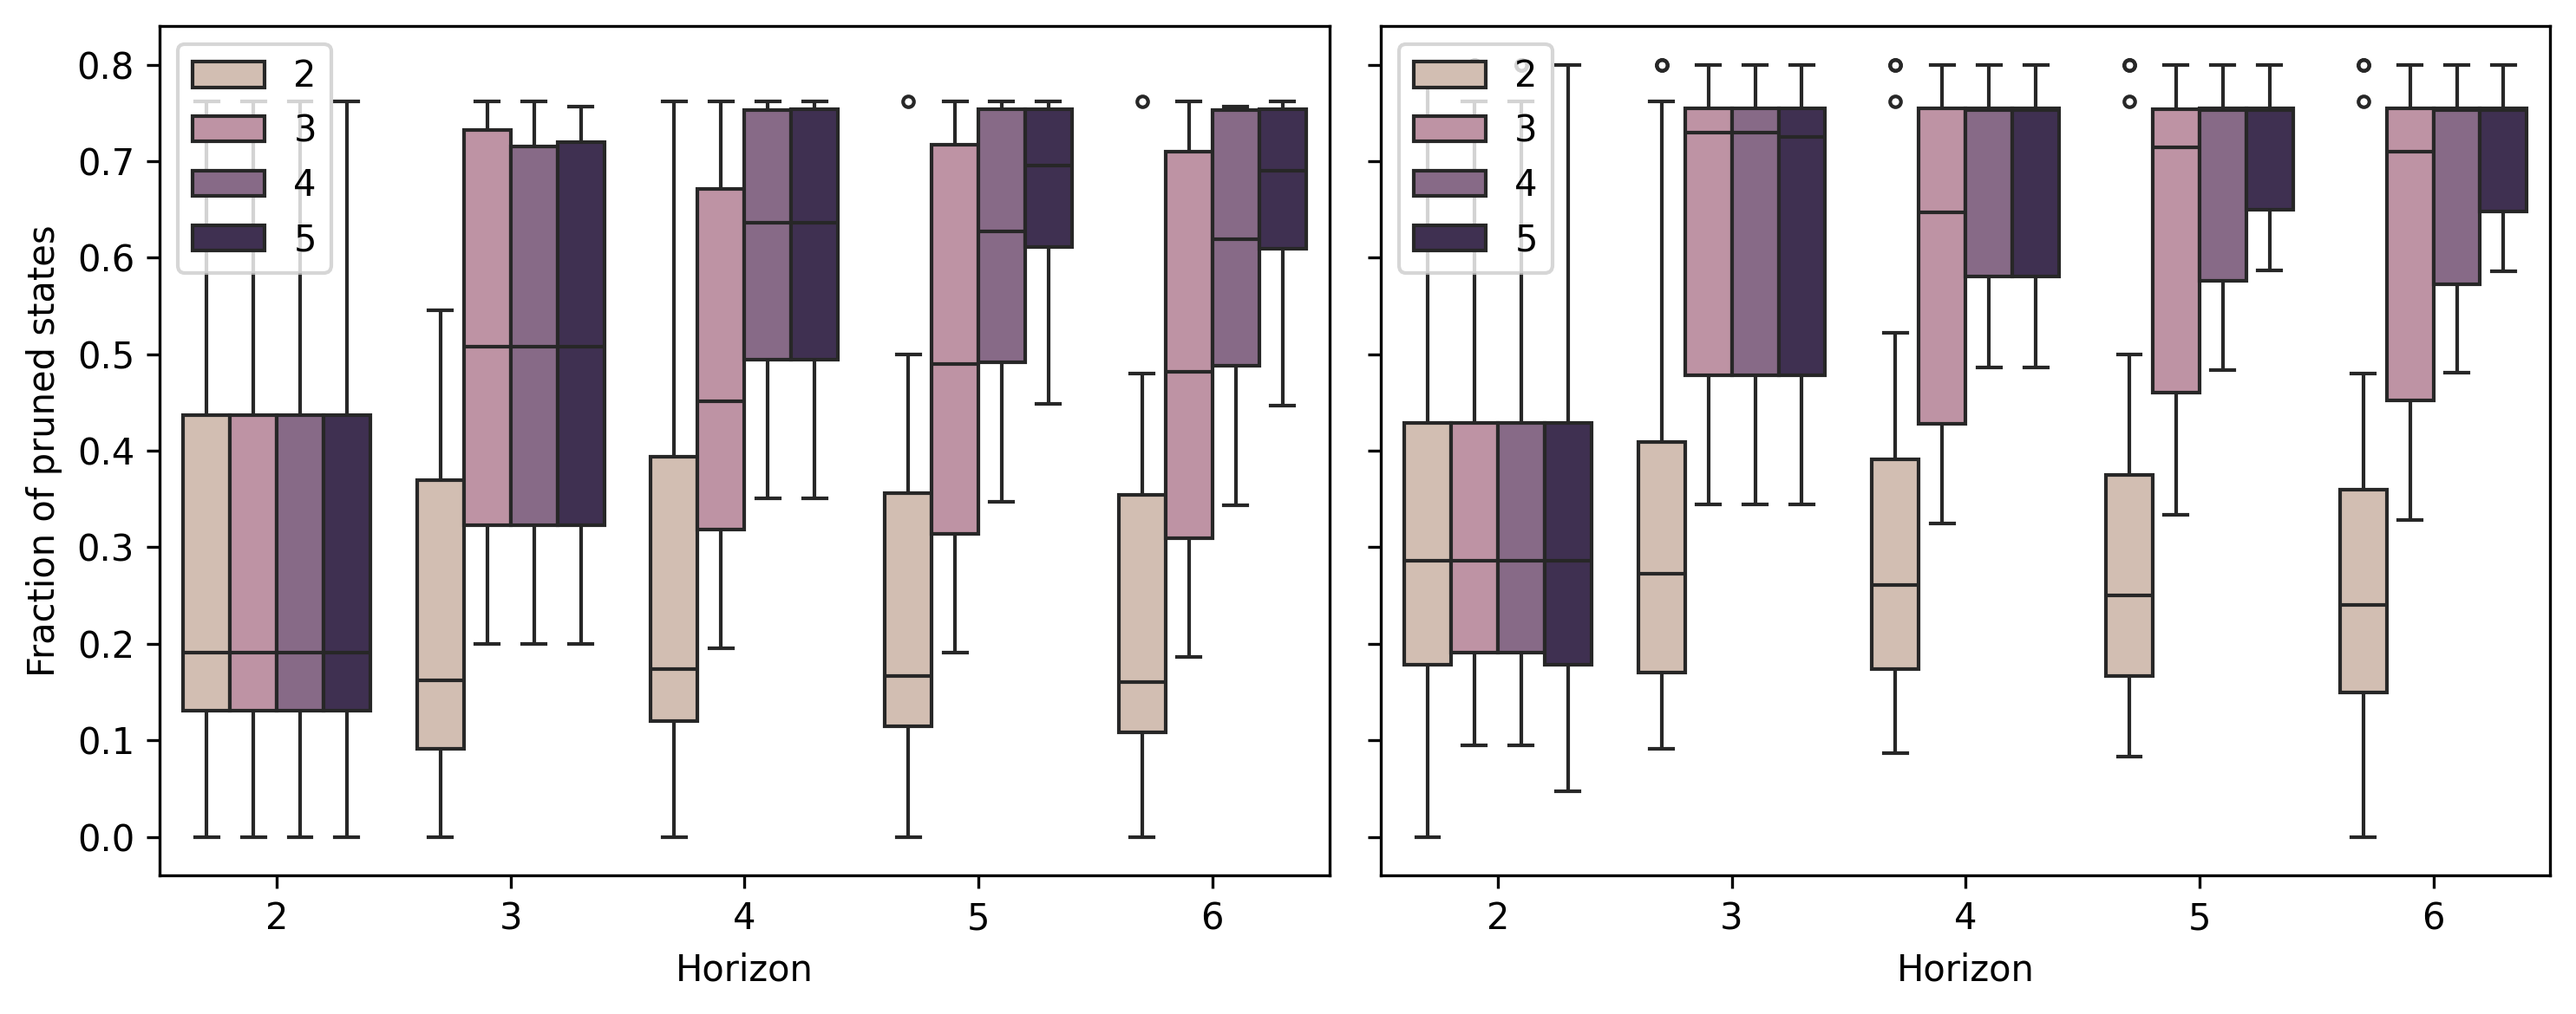
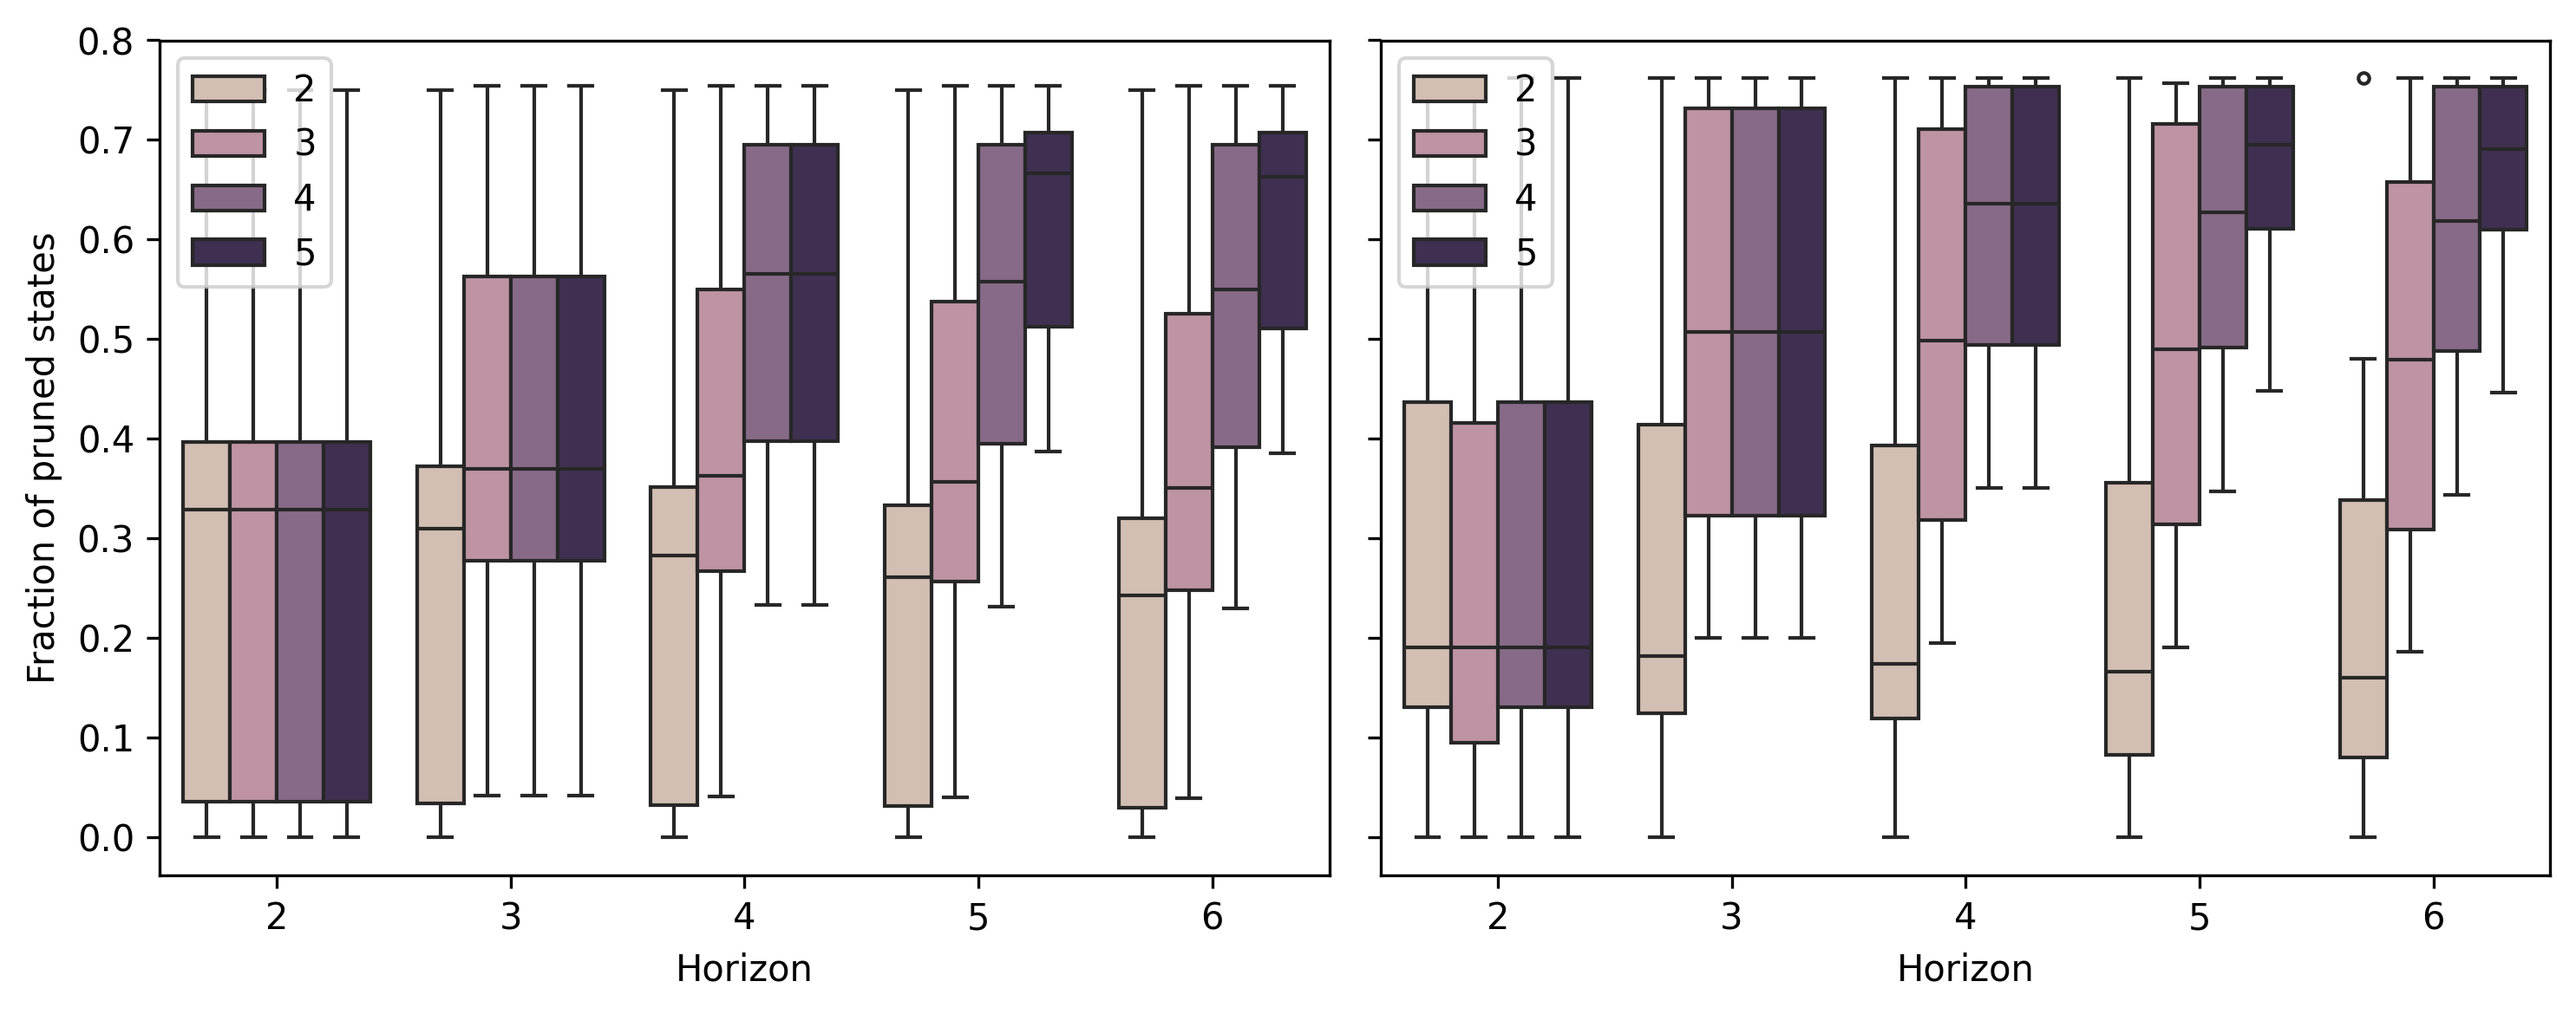
final update

diff --git a/AI/Paper/Dynamic-Range-reducer/Dynamic_Range_Reducer.py b/AI/Paper/Dynamic-Range-reducer/Dynamic_Range_Reducer.py
@@ -7,7 +7,7 @@ import bisect
 
 class QUBODynamicRangeReducer:
     def __init__(self, Q: np.ndarray, T: int = 5, roll_depth: int = 2, 
-                 policy_select: str = 'selection', branch_strategy: str = 'IMPACT', lb_method: str = 'roof_duality', verbose: bool = False):
+                 policy_select: str = 'selection', branch_strategy: str = 'IMPACT', verbose: bool = False):
         """
         初始化QUBO动态范围缩减器
         
@@ -17,7 +17,6 @@ class QUBODynamicRangeReducer:
             roll_depth (int): 策略推演深度，默认2
             policy_select (str): 策略选择('selection','mixed'或'base')，默认'selection'
             branch_strategy (str): 分支策略('ALL'或'IMPACT')，默认'IMPACT'
-            lb_method (str): 下界计算方法('roof_duality'或'negative')，默认'roof_duality'
             verbose (bool): 是否打印详细过程，默认False
 
         """
@@ -27,7 +26,6 @@ class QUBODynamicRangeReducer:
         self.roll_depth = 0 if policy_select == 'base' else roll_depth if roll_depth < T else T
         self.policy_select = policy_select
         self.branch_strategy = branch_strategy
-        self.lb_method = lb_method
         self.verbose = verbose
 
         # current_Q 用于保存可被增量更新的当前矩阵副本
@@ -226,9 +224,8 @@ class QUBODynamicRangeReducer:
             fixed_vars (dict): 已固定变量的字典，键为变量索引，值为固定值
 
         Returns:
-            Tuple (np.ndarray, float):
-                - Q_new: 简化后的QUBO矩阵
-                - const: 固定变量引入的常数项
+            Q_new(np.ndarray): 简化后的QUBO矩阵
+            const(float): 固定变量引入的常数项
         """
         const = 0.0
         free_vars = [i for i in range(self.n) if i not in fixed_vars]
@@ -434,9 +431,8 @@ class QUBODynamicRangeReducer:
             l (int): 变量索引l
             
         Returns:
-            Tuple(float, float):
-                - w_min: 计算得到的权重w的最小值
-                - w_max: 计算得到的权重w的最大值
+            w_min(float): 计算得到的权重w的最小值
+            w_max(float): 计算得到的权重w的最大值
 
         """
         # 区分对角线元素和非对角线元素
@@ -459,7 +455,7 @@ class QUBODynamicRangeReducer:
                 fixed_vars[l] = b
 
             y_hat[(a, b)] = self.ub_local_search(Q, fixed_vars)
-            y_bar[(a, b)] = self.lb_negative(Q, fixed_vars) if self.lb_method == 'negative' else self.lb_roof_duality(Q, fixed_vars)
+            y_bar[(a, b)] = self.lb_roof_duality(Q, fixed_vars)
 
         # 计算w的边界
         if is_diagonal:
@@ -546,9 +542,8 @@ class QUBODynamicRangeReducer:
             Q (np.ndarray): 输入QUBO矩阵
             
         Returns:
-            Tuple (Tuple[int, int], np.ndarray):
-                - best_action: 计算得到的最优动作
-                - best_next: 计算得到的最优下一个QUBO矩阵
+            best_action(Tuple[int, int]): 计算得到的最优动作
+            best_next(np.ndarray): 计算得到的最优下一个QUBO矩阵
 
         """
         best_DR = float('inf')
@@ -618,9 +613,8 @@ class QUBODynamicRangeReducer:
             None
             
         Returns:
-            Tuple (np.ndarray, float):
-                - best_Q: 分支定界得到的最优QUBO矩阵
-                - best_DR: 分支定界得到的最优动态范围
+            best_Q(np.ndarray): 分支定界得到的最优QUBO矩阵
+            best_DR(float): 分支定界得到的最优动态范围
 
         """
         queue = deque()
@@ -660,9 +654,12 @@ class QUBODynamicRangeReducer:
                 reward = current_DR - next_DR
                 
                 # 计算bound
+                remaining_steps = self.T - step - 1
+                remaining_step = self.roll_depth - step - 1
+
                 bound = self.rollout(
                     next_Q,
-                    self.roll_depth
+                    min(remaining_steps, self.roll_depth) if self.policy_select == 'selection' else max(remaining_step, 1)
                 )
                 
                 # 剪枝
@@ -686,9 +683,8 @@ class QUBODynamicRangeReducer:
             None
             
         Returns:
-            Tuple (np.ndarray, float):
-                - best_Q: 动态范围缩减后的最优QUBO矩阵
-                - best_DR: 动态范围缩减后的最优动态范围
+            best_Q(np.ndarray): 动态范围缩减后的最优QUBO矩阵
+            best_DR(float): 动态范围缩减后的最优动态范围
 
         """
         # 初始化
